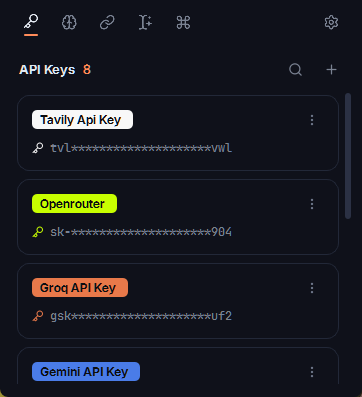
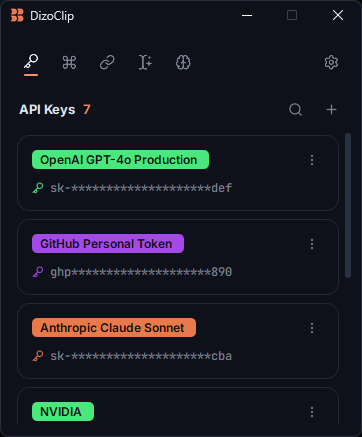
docs: add 08_Export_view screenshot, update export docs, and document changes in changelog

diff --git a/README.md b/README.md
@@ -208,7 +208,10 @@ Safely backup or migrate your data across devices with single-format, military-g
 
 **What it does:**
 - ✅ **Single Secure Container Format (`.dizoclip`)**: Encrypted using Fernet AES-128 with keys derived via Scrypt (`n=2^14, r=8, p=1`) from your password + 16-byte cryptographic salt
-- ✅ **Selective Tree Checklist**: Export exactly what you need—choose entire modules or pick individual keys, prompts, models, links, and commands with category badges and item counters
+- ✅ **Selective Tree Checklist**: Export exactly what you need—choose entire modules or pick individual keys, prompts, models, links, and commands with category badges and real-time item counters
+- ✅ **Dynamic Empty-Module Filtering**: Sections with 0 items are automatically hidden from the tree view so you only see categories containing data
+- ✅ **Single Password Box with Eye Reveal Toggle (`👁`)**: Embedded reveal toggle lets you quickly inspect what you typed before exporting—cleaner UI, faster workflow, zero double-typing
+- ✅ **Clear Security Guidelines**: Direct inline guidance reminds you that the password is required to decrypt and import your `.dizoclip` archive on any machine
 - ✅ **Non-Destructive Import Preview**: Inspect incoming archives before anything is touched. The preview categorizes items into **New** (green), **Matched** (identical, skipped or updated), and **Changed** (conflicts)
 - ✅ **Cross-Machine Portability**: Safely move secrets across different Windows user accounts and PCs without exposing plaintext keys
 - ✅ **Zero Plaintext Leaks**: Legacy unencrypted JSON and plain `.env` file exports are eliminated to guarantee that secrets never sit exposed on disk
@@ -219,11 +222,7 @@ Safely backup or migrate your data across devices with single-format, military-g
 - Never wonder what an import will overwrite thanks to the real-time visual comparison preview
 
 <div align="center">
-  <img src="docs/screenshots/09_export_dialog.png" alt="Selective Export Dialog" width="480" />
-</div>
-
-<div align="center">
-  <img src="docs/screenshots/10_import_dialog.png" alt="Import Preview Dialog" width="480" />
+  <img src="docs/screenshots/08_Export_view.png" alt="Selective Export Dialog" width="360" />
 </div>
 
 ---
@@ -274,26 +273,10 @@ First-time launch includes a clean onboarding tour introducing DizoClip's local-
 ### Selective Export Dialog
 
 <div align="center">
-  <img src="docs/screenshots/09_export_dialog.png" alt="Selective Export Dialog" width="520" />
+  <img src="docs/screenshots/08_Export_view.png" alt="Selective Export Dialog" width="360" />
 </div>
 
-Granular checklist tree allows exporting specific modules or individual items with real-time selection counts and password protection.
-
-### Import Preview & Comparison
-
-<div align="center">
-  <img src="docs/screenshots/10_import_dialog.png" alt="Import Preview & Diff" width="520" />
-</div>
-
-Non-destructive preview compares incoming data against your local store, categorizing entries into New, Matched, and Changed badges before merging.
-
-### Empty-State Guidance & Quick Add
-
-<div align="center">
-  <img src="docs/screenshots/11_empty_state.png" alt="Empty State Quick Action" width="480" />
-</div>
-
-Clean, distraction-free empty state with context-specific descriptions and an auto-sized centered action button.
+Granular checklist tree allows exporting specific modules or individual items with real-time selection counts, automatic empty-module filtering, and single-field password encryption with show/hide reveal toggle.
 
 ### Custom Color Picker & Brand Colors
 

diff --git a/CHANGELOG.md b/CHANGELOG.md
@@ -7,24 +7,29 @@ and this project adheres to [Semantic Versioning](https://semver.org/spec/v2.0.0
 
 ---
 
-## [1.1.0] - 2026-11-21
+## [1.1.0] - 2026-11-22
 
 ### Added
-- **Selective Export & Import Preview**: Choose categories or single items to share via an interactive checklist dialog, protected by a passphrase in encrypted `.dizoclip` format.
+- **Selective Export & Import Preview**: Choose categories or single items to share via an interactive checklist dialog, protected by password encryption in `.dizoclip` format.
+- **Embedded Eye Reveal Toggle (`👁`)**: Single password input in Export dialog with an interactive reveal toggle to show or hide the password on demand, eliminating double-typing and entry errors.
+- **Dynamic Empty Module Filtering**: Export tree automatically filters out empty modules (sections with 0 items), keeping the checklist concise and actionable.
+- **Structured Password Guidelines & Compact Dialog**: Refined Export dialog height to a sleek 405px with compact item row heights and clear 2-point guidelines (`• This password encrypts your file. • You’ll need it to unlock and import in DizoClip.`).
 - **Import Preview**: Displays New / Matched / Changed items before importing; only New items are selected by default, and Changed items can be imported as non-destructive `(imported)` copies.
-- **Passphrase-Protected Export & Import**: Secure `.dizoclip` export bundle using Scrypt and Fernet (AES-128) with automatic wrong-passphrase retry.
-- **Clipboard Auto-Clear**: Automatically wipes copied API keys after 30 seconds if still on the clipboard. Marks clipboard mime data to request exclusion from Windows Clipboard History (`Win+V`) and cloud syncing.
+- **Password-Protected Export & Import**: Secure `.dizoclip` export bundle using Scrypt and Fernet (AES-128) with automatic wrong-password retry.
+- **Clipboard Auto-Clear**: Automatically wipes copied API keys after 30 seconds if still on the clipboard. Marks clipboard mime data to request exclusion from Windows Clipboard History (`Win+V`) and cloud syncing (default: OFF for user choice).
 - **Encrypt All Data Setting**: Protect prompts, terminal commands, and AI model snippets on disk using DPAPI encryption (`dzc1:` prefix). Default enabled in Settings.
 - **File Logging**: Standardized rotating diagnostic logs in `User_Data/Logs/dizoclip.log` with automatic secret redaction.
 - **Single-Instance Protection**: Enforced using `QLockFile` so concurrent app instances cannot corrupt data files.
 
 ### Fixed
+- **Disabled Button Contrast**: Added explicit disabled icon pixmaps for Export and Import primary buttons so the action icon remains clearly visible and matches the dimmed `#7a6a62` label.
 - Importing an old export after editing an item no longer creates duplicates.
 - Importing damaged data can no longer break the AI Models tab; search and cards tolerate damaged data.
 - A failed save during import no longer leaves unsaved items on screen.
 - Export reports locked items it skipped; export files are written atomically.
 
 ### Changed
+- Standardized terminology across the application from "passphrase" to "password".
 - Surface save failures: disk write errors are shown in a prompt dialog rather than failing silently.
 - Refactored `ListView.rebuild()` to be registry-driven and modular.
 - Unified copy and delete handling across the main window.
